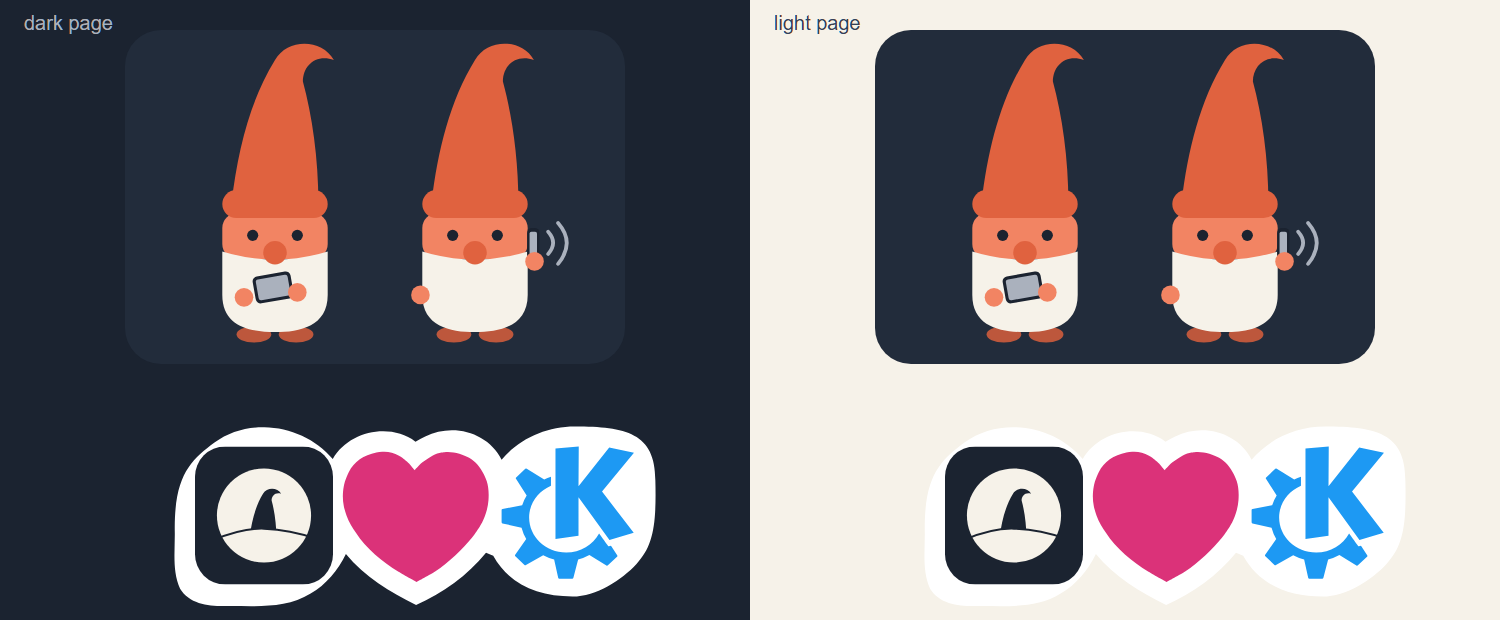
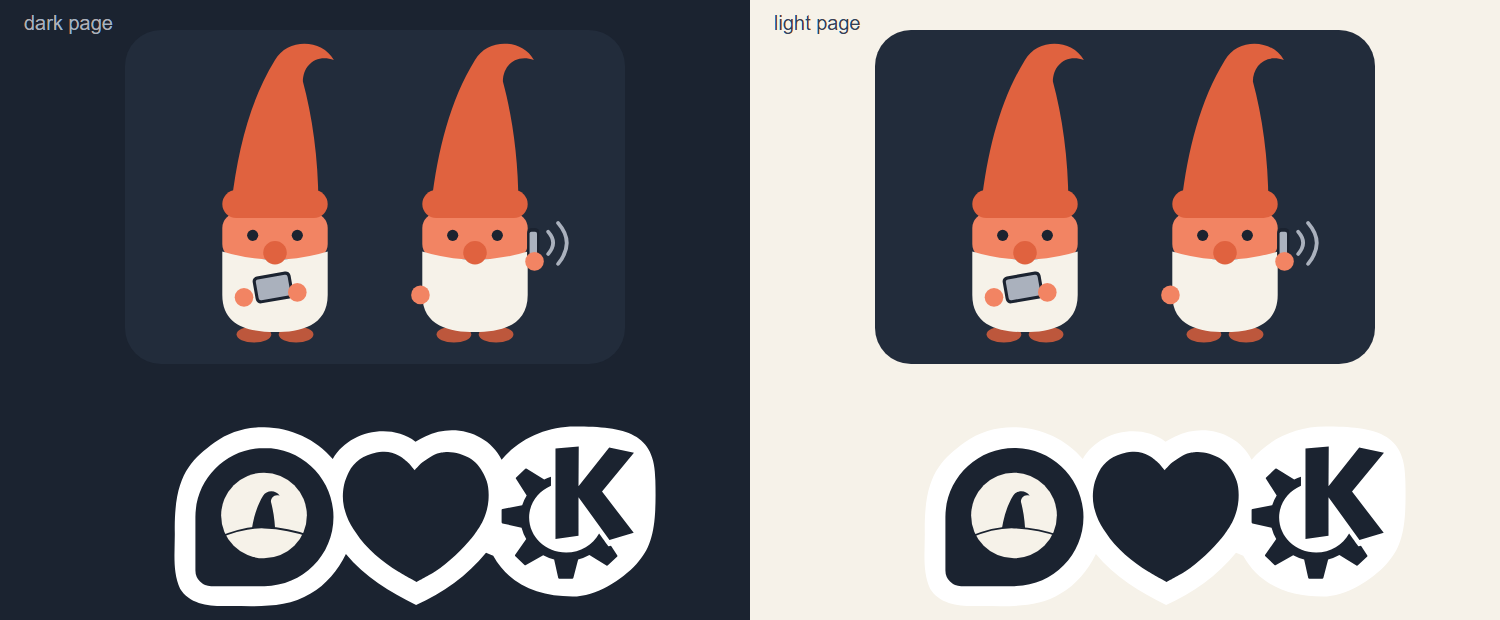
N-406: nisse-loves sticker follows the bubble shape; all three marks Ink (Bert's gate feedback)
Claude-Session: https://claude.ai/code/session_012HaX4wM2HNi6CtaPcZCAUT

Changed region(s): [[0.1227, 0.7048, 0.4293, 0.95], [0.6133, 0.7048, 0.92, 0.95]]

diff --git a/tools/art/avatars.py b/tools/art/avatars.py
@@ -14,6 +14,7 @@ tokens, flat shapes, no gradients, no hill (the disc is the only background).
     python tools/art/avatars.py            writes assets/art/avatars/{svg,png}/*, sheet.png
 """
 import base64
+import re
 import sys
 from pathlib import Path
 
@@ -256,18 +257,26 @@ LEFT_LOGO = '<g style="stroke-width:.675354">'   # the original's left logo grou
 
 
 def build_loves():
-    """The sticker with only its left side changed: the Fedora logo becomes the nisse tile; the heart, the KDE logo and the
-    white outline are the original's, byte for byte. The tile is placed where the Fedora bubble was (30..122, 30..124)."""
+    """The sticker as Bert gated it: the nisse logo takes the shape of the Fedora bubble (the white outline already follows
+    it), the Fedora f becomes the logo's Paper disc with the hat and hill knocked out, and all three marks (the nisse
+    logo, the heart and the KDE logo) are the nisse Ink. The white outline and every shape are the original's."""
     src = SOURCE_LOVES.read_text(encoding="utf-8")
     i = src.index(LEFT_LOGO)
     j = src.index("</g>", i) + len("</g>")
+    left = src[i:j]
+    bubble = re.search(r'<path d="[^"]+" style="fill:#51a2da[^"]*" transform="[^"]+"/>', left).group(0)
+    bubble = bubble.replace("#51a2da", INK)
     tile = TILE_SVG.read_text(encoding="utf-8")
-    inner = tile[tile.index("<defs>"):tile.rindex("</svg>")]
-    nisse = f'<svg x="30" y="31" width="92" height="92" viewBox="0 0 512 512" id="nisse-logo">{inner}</svg>'
-    note = ("<!-- Derived from fedora-loves-kde.svg (plasma-welcome-fedora 6.3.4-3, see assets/art/avatars/source): only the left logo "
-            "is replaced, by the nisse tile; the heart, the KDE logo and the outline are the original's. Licence of the original "
-            "to be confirmed when this is packaged (ledger N-406a). -->")
-    out = src[:i] + nisse + src[j:]
+    defs = tile[tile.index("<defs>"):tile.index("</defs>") + len("</defs>")]
+    disc = (f'<circle cx="256" cy="256" r="236" fill="{PAPER}" mask="url(#knockout)"/>')
+    # the logo's disc sits where the f was (its centre is the bubble centre, about 76, 77) and about 57 units across
+    nisse = (f'<g id="nisse-logo">{bubble}'
+             f'<svg x="45" y="46" width="62" height="62" viewBox="0 0 512 512">{defs}{disc}</svg></g>')
+    rest = src[j:].replace("#db3279", INK).replace("#1d99f3", INK)
+    note = ("<!-- Derived from fedora-loves-kde.svg (plasma-welcome-fedora 6.3.4-3, see assets/art/avatars/source): the left logo is "
+            "the nisse logo in the bubble's shape, and the heart and the KDE logo are recoloured to the nisse Ink; every shape and the "
+            "outline are the original's. Licence of the original to be confirmed when this is packaged (ledger N-406a). -->")
+    out = src[:i] + nisse + rest
     k = out.index(">") + 1        # right after the opening svg tag
     return out[:k] + note + out[k:]
 

diff --git a/tools/art/tests/test_avatars.py b/tools/art/tests/test_avatars.py
@@ -107,18 +107,33 @@ def test_the_sheet_names_every_avatar_and_shows_the_small_sizes():
 
 
 # ---- the other Konqi pictures
-def test_the_loves_sticker_changes_only_its_left_side():
+def _paths(svg):
+    return re.findall(r' d="([^"]+)"', svg)
+
+
+def test_the_loves_sticker_nisse_logo_takes_the_shape_the_white_outline_already_follows():
+    # Bert's gate: the nisse logo matches the shape of the white outer area, so it uses the Fedora bubble's own outline
     original = (ROOT / "assets" / "art" / "avatars" / "source" / "fedora-loves-kde.svg").read_text(encoding="utf-8")
     new = avatars.build_loves()
     new.encode("ascii")
-    # the heart, the KDE logo and the white outline are untouched, character for character
-    left_start = original.index(avatars.LEFT_LOGO)
-    left_end = original.index("</g>", left_start) + len("</g>")
-    assert original[:left_start].split(">", 1)[1] in new          # the white outline path and what comes before the left logo
-    assert original[left_end:] in new                             # the heart and the KDE logo
-    assert "M48.86 106.878" not in new and "M53.428 116.152" not in new     # the Fedora bubble and its f are gone
-    assert 'id="nisse-logo"' in new and "#1b2330" in new           # the nisse tile is in
-    assert "fedora" not in new.lower().replace("fedora-loves-kde.svg (plasma-welcome-fedora", "")
+    o_paths = _paths(original)             # [outline, bubble, f, heart, K and gear]
+    assert o_paths[0] in new               # the white outline is the original's
+    assert o_paths[1] in new               # the nisse shape IS the bubble's outline
+    assert o_paths[2] not in new           # the Fedora f is gone
+    assert 'id="nisse-logo"' in new and 'rx="112"' not in new     # no rounded square tile: the bubble is the shape
+
+
+def test_the_loves_sticker_heart_and_kde_logo_keep_their_shapes_and_all_three_marks_are_one_color():
+    original = (ROOT / "assets" / "art" / "avatars" / "source" / "fedora-loves-kde.svg").read_text(encoding="utf-8")
+    new = avatars.build_loves()
+    for d in _paths(original)[3:]:
+        assert d in new                    # the heart and the KDE logo are the same shapes
+    low = new.lower()
+    for old in ("#51a2da", "#fafafa", "#db3279", "#1d99f3"):
+        assert old not in low, old         # no Fedora blue, heart pink or KDE blue left
+    used = {h.lower() for h in re.findall(r"#[0-9a-fA-F]{3,6}", new)}
+    assert used == {"#fff", "#000", "#1b2330", "#f6f2e9"}, used     # outline white, Ink, Paper; #000 and #fff also drive the logo's own knockout mask
+    assert low.count('fill="#1b2330"') + low.count("fill:#1b2330") >= 3     # bubble, heart and K, all Ink
 
 
 def test_the_loves_sticker_keeps_the_original_size_and_view_box():
